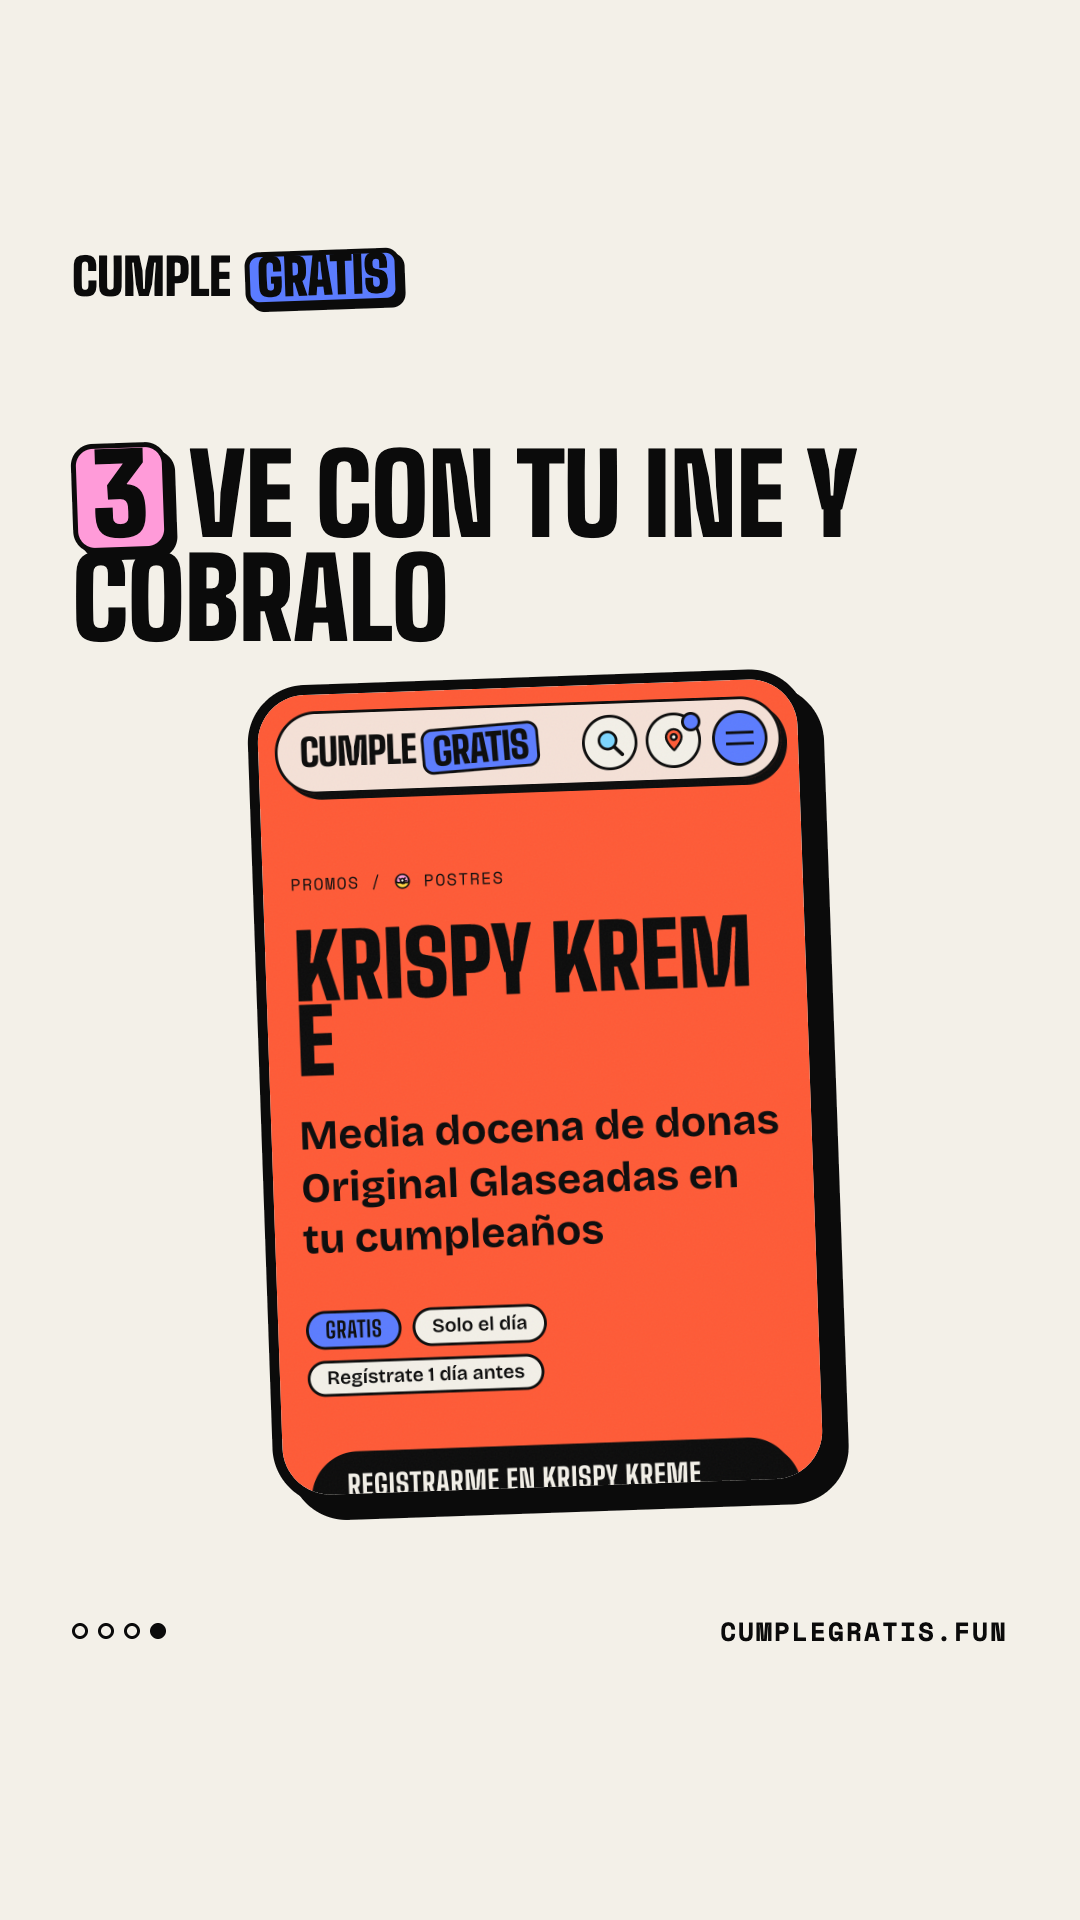
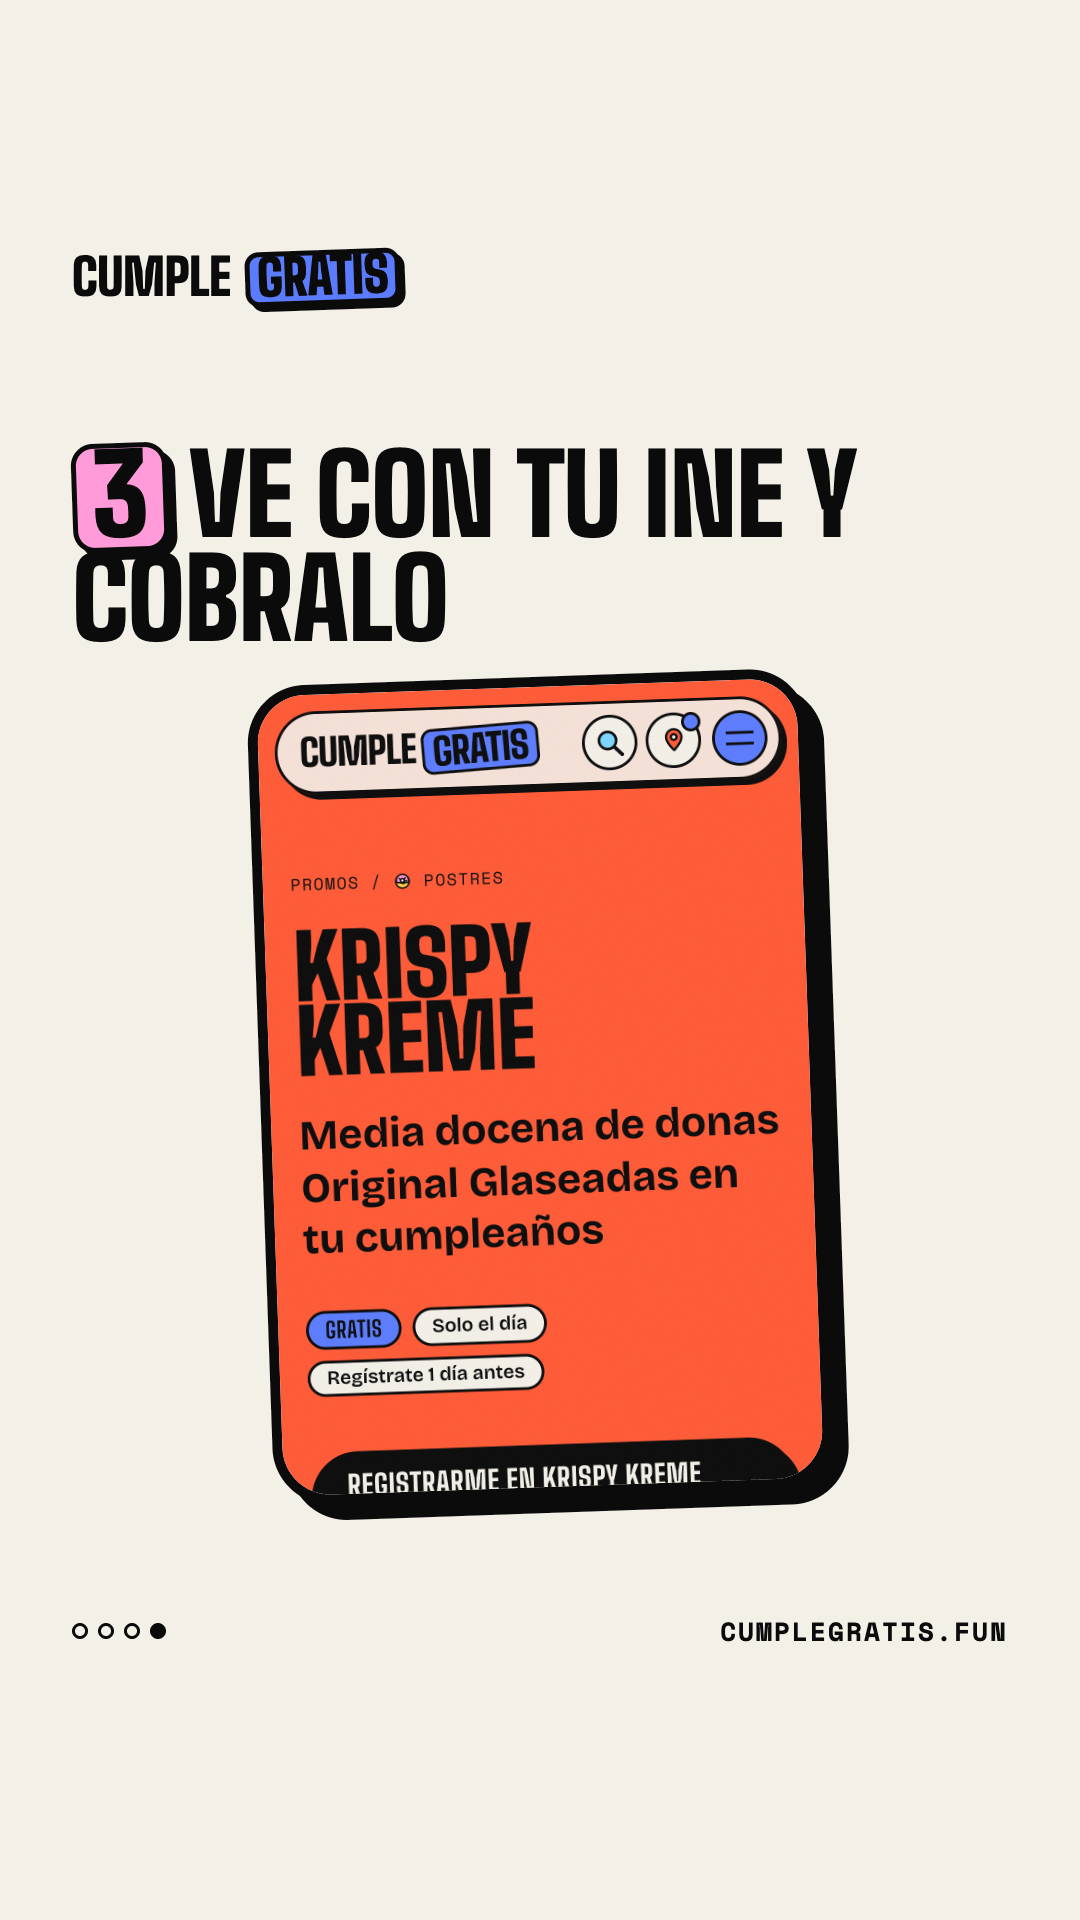
Cumplegratis: destacada «Cómo funciona» con captura corregida

Changed region(s): [[0.275, 0.4688, 0.7028, 0.5625]]

diff --git a/index.html b/index.html
@@ -933,7 +933,7 @@ render();
 </section>
 
 <script>
-const CG = {"items": [{"id": "p01", "type": "post", "date": "2026-10-14", "title": "Tu cumple sale gratis (presentación)", "when": "", "note": "Día de apertura: primero foto de perfil y bio (Perfil, abajo). Luego este carrusel y fíjalo arriba del perfil.", "ig_text": "Tu cumple sale gratis.\n\nJuntamos todas las promos de cumpleaños de México: café, postre, comida, cine y regalos. Pones tu fecha y tu ciudad y te decimos qué registrar y hasta cuándo.\n\nGratis y sin cuenta: link en la bio.\n\n#cumpleaños #promociones #mexico #gratis #cumplegratis", "tt_text": "Todas las promos de cumpleaños de México en un solo lugar. Link en mi perfil #cumpleaños #promociones #mexico #gratis", "ig": [{"full": "cumplegratis/img/p01/ig/1.jpg?v=297d1154", "thumb": "cumplegratis/img/p01/ig/t1.jpg?v=d7e737ea"}, {"full": "cumplegratis/img/p01/ig/2.jpg?v=20e0c9f6", "thumb": "cumplegratis/img/p01/ig/t2.jpg?v=f92fd894"}, {"full": "cumplegratis/img/p01/ig/3.jpg?v=8c886379", "thumb": "cumplegratis/img/p01/ig/t3.jpg?v=6747280a"}, {"full": "cumplegratis/img/p01/ig/4.jpg?v=64f4d226", "thumb": "cumplegratis/img/p01/ig/t4.jpg?v=0f6d96af"}, {"full": "cumplegratis/img/p01/ig/5.jpg?v=eb682a5f", "thumb": "cumplegratis/img/p01/ig/t5.jpg?v=ff97c169"}], "tt": [{"full": "cumplegratis/img/p01/tt/1.jpg?v=297d1154", "thumb": "cumplegratis/img/p01/tt/t1.jpg?v=d7e737ea"}, {"full": "cumplegratis/img/p01/tt/2.jpg?v=20e0c9f6", "thumb": "cumplegratis/img/p01/tt/t2.jpg?v=f92fd894"}, {"full": "cumplegratis/img/p01/tt/3.jpg?v=8c886379", "thumb": "cumplegratis/img/p01/tt/t3.jpg?v=6747280a"}, {"full": "cumplegratis/img/p01/tt/4.jpg?v=64f4d226", "thumb": "cumplegratis/img/p01/tt/t4.jpg?v=0f6d96af"}, {"full": "cumplegratis/img/p01/tt/5.jpg?v=eb682a5f", "thumb": "cumplegratis/img/p01/tt/t5.jpg?v=ff97c169"}], "solo_ig": false}, {"id": "p02", "type": "post", "date": "2026-10-16", "title": "Regalos que puedes cobrar en tu cumpleaños", "when": "", "note": "", "ig_text": "Regalos que puedes cobrar en tu cumpleaños en cadenas de todo México. Cada una tiene sus requisitos: algunas piden app o registro antes, otras solo tu INE.\n\nTodas las condiciones y lo que aplica en tu ciudad: link en la bio.\n\n#cumpleaños #regalosdecumpleaños #promociones #mexico", "tt_text": "Regalos que puedes cobrar en tu cumple. Guárdalo #cumpleaños #promociones #mexico #gratis", "ig": [{"full": "cumplegratis/img/p02/ig/1.jpg?v=56a81232", "thumb": "cumplegratis/img/p02/ig/t1.jpg?v=b1052b84"}, {"full": "cumplegratis/img/p02/ig/2.jpg?v=8419044f", "thumb": "cumplegratis/img/p02/ig/t2.jpg?v=dd36af64"}, {"full": "cumplegratis/img/p02/ig/3.jpg?v=87d4e8fd", "thumb": "cumplegratis/img/p02/ig/t3.jpg?v=4f14f570"}, {"full": "cumplegratis/img/p02/ig/4.jpg?v=8b3bced3", "thumb": "cumplegratis/img/p02/ig/t4.jpg?v=307720d6"}, {"full": "cumplegratis/img/p02/ig/5.jpg?v=216b62d3", "thumb": "cumplegratis/img/p02/ig/t5.jpg?v=b2c5c739"}, {"full": "cumplegratis/img/p02/ig/6.jpg?v=56a5f168", "thumb": "cumplegratis/img/p02/ig/t6.jpg?v=eb18cb86"}], "tt": [{"full": "cumplegratis/img/p02/tt/1.jpg?v=56a81232", "thumb": "cumplegratis/img/p02/tt/t1.jpg?v=b1052b84"}, {"full": "cumplegratis/img/p02/tt/2.jpg?v=8419044f", "thumb": "cumplegratis/img/p02/tt/t2.jpg?v=dd36af64"}, {"full": "cumplegratis/img/p02/tt/3.jpg?v=87d4e8fd", "thumb": "cumplegratis/img/p02/tt/t3.jpg?v=4f14f570"}, {"full": "cumplegratis/img/p02/tt/4.jpg?v=8b3bced3", "thumb": "cumplegratis/img/p02/tt/t4.jpg?v=307720d6"}, {"full": "cumplegratis/img/p02/tt/5.jpg?v=216b62d3", "thumb": "cumplegratis/img/p02/tt/t5.jpg?v=b2c5c739"}, {"full": "cumplegratis/img/p02/tt/6.jpg?v=56a5f168", "thumb": "cumplegratis/img/p02/tt/t6.jpg?v=eb18cb86"}], "solo_ig": false}, {"id": "p03", "type": "post", "date": "2026-10-19", "title": "Cumples en noviembre: regístrate ya", "when": "", "note": "Va antes de que empiece noviembre para que alcancen a registrarse.", "ig_text": "¿Cumples en noviembre? Muchos regalos de cumpleaños solo llegan si ya estabas registrado en el programa de la marca.\n\nEn cumplegratis.fun pones tu fecha y te sale hasta qué día registrarte en cada uno. Link en la bio.\n\n#cumpleaños #noviembre #promociones #mexico", "tt_text": "Si cumples en noviembre, regístrate YA #cumpleaños #noviembre #promociones #mexico", "ig": [{"full": "cumplegratis/img/p03/ig/1.jpg?v=bb37e3fe", "thumb": "cumplegratis/img/p03/ig/t1.jpg?v=354d176e"}, {"full": "cumplegratis/img/p03/ig/2.jpg?v=865d282a", "thumb": "cumplegratis/img/p03/ig/t2.jpg?v=b7b1b67d"}, {"full": "cumplegratis/img/p03/ig/3.jpg?v=11c02ddb", "thumb": "cumplegratis/img/p03/ig/t3.jpg?v=c4e4cd49"}], "tt": [{"full": "cumplegratis/img/p03/tt/1.jpg?v=bb37e3fe", "thumb": "cumplegratis/img/p03/tt/t1.jpg?v=354d176e"}, {"full": "cumplegratis/img/p03/tt/2.jpg?v=865d282a", "thumb": "cumplegratis/img/p03/tt/t2.jpg?v=b7b1b67d"}, {"full": "cumplegratis/img/p03/tt/3.jpg?v=11c02ddb", "thumb": "cumplegratis/img/p03/tt/t3.jpg?v=c4e4cd49"}], "solo_ig": false}], "perfil": {"foto": {"file": "cumplegratis/img/perfil/perfil.png?v=eec987cf", "thumb": "cumplegratis/img/perfil/t-perfil.jpg?v=a9a232ec", "name": "cumplegratis-perfil.png", "label": ""}, "destacadas": [{"file": "cumplegratis/img/dest/1.png?v=d3cf2a99", "thumb": "cumplegratis/img/dest/t1.jpg?v=86b2a82c", "name": "cumplegratis-destacada-1.png", "label": "Cómo funciona"}, {"file": "cumplegratis/img/dest/2.png?v=3b9a06f3", "thumb": "cumplegratis/img/dest/t2.jpg?v=c7b04832", "name": "cumplegratis-destacada-2.png", "label": "Regístrate antes"}, {"file": "cumplegratis/img/dest/3.png?v=fd99a87c", "thumb": "cumplegratis/img/dest/t3.jpg?v=8c8e868b", "name": "cumplegratis-destacada-3.png", "label": "Solo con tu INE"}, {"file": "cumplegratis/img/dest/4.png?v=331a9e3c", "thumb": "cumplegratis/img/dest/t4.jpg?v=977c184a", "name": "cumplegratis-destacada-4.png", "label": "Por ciudad"}], "historias": [{"title": "Cómo funciona", "items": [{"file": "cumplegratis/img/dest/1-1.png?v=62d78f5f", "thumb": "cumplegratis/img/dest/t1-1.jpg?v=0bc079e3", "name": "cumplegratis-1-1.png"}, {"file": "cumplegratis/img/dest/1-2.png?v=63e6fbbb", "thumb": "cumplegratis/img/dest/t1-2.jpg?v=bfbd2c6d", "name": "cumplegratis-1-2.png"}, {"file": "cumplegratis/img/dest/1-3.png?v=bf7d8b1e", "thumb": "cumplegratis/img/dest/t1-3.jpg?v=81f38a60", "name": "cumplegratis-1-3.png"}, {"file": "cumplegratis/img/dest/1-4.png?v=77437dd3", "thumb": "cumplegratis/img/dest/t1-4.jpg?v=c89de711", "name": "cumplegratis-1-4.png"}]}, {"title": "Regístrate antes", "items": [{"file": "cumplegratis/img/dest/2-1.png?v=50be9462", "thumb": "cumplegratis/img/dest/t2-1.jpg?v=537e8800", "name": "cumplegratis-2-1.png"}, {"file": "cumplegratis/img/dest/2-2.png?v=396bf079", "thumb": "cumplegratis/img/dest/t2-2.jpg?v=c2b0bd7d", "name": "cumplegratis-2-2.png"}, {"file": "cumplegratis/img/dest/2-3.png?v=fb1784a8", "thumb": "cumplegratis/img/dest/t2-3.jpg?v=46d71647", "name": "cumplegratis-2-3.png"}]}, {"title": "Solo con tu INE", "items": [{"file": "cumplegratis/img/dest/3-1.png?v=cc3ac964", "thumb": "cumplegratis/img/dest/t3-1.jpg?v=0de74dc5", "name": "cumplegratis-3-1.png"}, {"file": "cumplegratis/img/dest/3-2.png?v=83a0ce9b", "thumb": "cumplegratis/img/dest/t3-2.jpg?v=cb09d5d9", "name": "cumplegratis-3-2.png"}, {"file": "cumplegratis/img/dest/3-3.png?v=8223ae98", "thumb": "cumplegratis/img/dest/t3-3.jpg?v=cb1abc39", "name": "cumplegratis-3-3.png"}]}, {"title": "Por ciudad", "items": [{"file": "cumplegratis/img/dest/4-1.png?v=b1453a2d", "thumb": "cumplegratis/img/dest/t4-1.jpg?v=81cbcfad", "name": "cumplegratis-4-1.png"}, {"file": "cumplegratis/img/dest/4-2.png?v=ec373e08", "thumb": "cumplegratis/img/dest/t4-2.jpg?v=b3cdf6c8", "name": "cumplegratis-4-2.png"}]}], "bio": [{"title": "Usuario (las dos redes)", "text": "cumplegratis.fun"}, {"title": "Nombre (las dos redes)", "text": "Cumplegratis · Promos de cumpleaños"}, {"title": "Bio de Instagram", "text": "Todas las promos de cumpleaños de México en un solo lugar.\nCafé, postre, cine y regalos: qué te dan y cómo cobrarlo.\nDe Dusa Solutions"}, {"title": "Bio de TikTok", "text": "Las promos de cumpleaños de México. Qué te regalan y cómo cobrarlo."}, {"title": "Enlace de Instagram", "text": "https://cumplegratis.fun/ig"}, {"title": "Enlace de TikTok", "text": "https://cumplegratis.fun/tt"}]}, "calStart": "2026-10-12", "apertura": "2026-10-14", "pendientes": [{"id": "perfil", "cuando": "Antes del mié 14", "texto": "Sube la foto de perfil y pega nombre, bio y enlace de cada red (Perfil, abajo). Los enlaces son cumplegratis.fun/ig y cumplegratis.fun/tt."}, {"id": "seguridad", "cuando": "Antes del mié 14", "texto": "Activa verificación en dos pasos en las dos cuentas."}, {"id": "fijar", "cuando": "Mié 14", "texto": "Fija el carrusel de presentación arriba del perfil en Instagram y TikTok."}], "ideas": [], "consejos": ["Cuando cobres una promo real (tu café, tu postre), graba 5–10 s en vertical: el producto y el ticket o la app. Suéltalo en 3-CRUDO.", "Graba sin hablar si no quieres salir: yo le pongo texto y música.", "No grabes caras de empleados ni de otros clientes sin permiso."], "h1": "Cumplegratis <span>oct</span> – <em>nov</em>", "sub": "Posts lun · mié · vie  ·  7–9 pm  ·  actualizado el 13/10/2026"};
+const CG = {"items": [{"id": "p01", "type": "post", "date": "2026-10-14", "title": "Tu cumple sale gratis (presentación)", "when": "", "note": "Día de apertura: primero foto de perfil y bio (Perfil, abajo). Luego este carrusel y fíjalo arriba del perfil.", "ig_text": "Tu cumple sale gratis.\n\nJuntamos todas las promos de cumpleaños de México: café, postre, comida, cine y regalos. Pones tu fecha y tu ciudad y te decimos qué registrar y hasta cuándo.\n\nGratis y sin cuenta: link en la bio.\n\n#cumpleaños #promociones #mexico #gratis #cumplegratis", "tt_text": "Todas las promos de cumpleaños de México en un solo lugar. Link en mi perfil #cumpleaños #promociones #mexico #gratis", "ig": [{"full": "cumplegratis/img/p01/ig/1.jpg?v=297d1154", "thumb": "cumplegratis/img/p01/ig/t1.jpg?v=d7e737ea"}, {"full": "cumplegratis/img/p01/ig/2.jpg?v=20e0c9f6", "thumb": "cumplegratis/img/p01/ig/t2.jpg?v=f92fd894"}, {"full": "cumplegratis/img/p01/ig/3.jpg?v=8c886379", "thumb": "cumplegratis/img/p01/ig/t3.jpg?v=6747280a"}, {"full": "cumplegratis/img/p01/ig/4.jpg?v=64f4d226", "thumb": "cumplegratis/img/p01/ig/t4.jpg?v=0f6d96af"}, {"full": "cumplegratis/img/p01/ig/5.jpg?v=eb682a5f", "thumb": "cumplegratis/img/p01/ig/t5.jpg?v=ff97c169"}], "tt": [{"full": "cumplegratis/img/p01/tt/1.jpg?v=297d1154", "thumb": "cumplegratis/img/p01/tt/t1.jpg?v=d7e737ea"}, {"full": "cumplegratis/img/p01/tt/2.jpg?v=20e0c9f6", "thumb": "cumplegratis/img/p01/tt/t2.jpg?v=f92fd894"}, {"full": "cumplegratis/img/p01/tt/3.jpg?v=8c886379", "thumb": "cumplegratis/img/p01/tt/t3.jpg?v=6747280a"}, {"full": "cumplegratis/img/p01/tt/4.jpg?v=64f4d226", "thumb": "cumplegratis/img/p01/tt/t4.jpg?v=0f6d96af"}, {"full": "cumplegratis/img/p01/tt/5.jpg?v=eb682a5f", "thumb": "cumplegratis/img/p01/tt/t5.jpg?v=ff97c169"}], "solo_ig": false}, {"id": "p02", "type": "post", "date": "2026-10-16", "title": "Regalos que puedes cobrar en tu cumpleaños", "when": "", "note": "", "ig_text": "Regalos que puedes cobrar en tu cumpleaños en cadenas de todo México. Cada una tiene sus requisitos: algunas piden app o registro antes, otras solo tu INE.\n\nTodas las condiciones y lo que aplica en tu ciudad: link en la bio.\n\n#cumpleaños #regalosdecumpleaños #promociones #mexico", "tt_text": "Regalos que puedes cobrar en tu cumple. Guárdalo #cumpleaños #promociones #mexico #gratis", "ig": [{"full": "cumplegratis/img/p02/ig/1.jpg?v=56a81232", "thumb": "cumplegratis/img/p02/ig/t1.jpg?v=b1052b84"}, {"full": "cumplegratis/img/p02/ig/2.jpg?v=8419044f", "thumb": "cumplegratis/img/p02/ig/t2.jpg?v=dd36af64"}, {"full": "cumplegratis/img/p02/ig/3.jpg?v=87d4e8fd", "thumb": "cumplegratis/img/p02/ig/t3.jpg?v=4f14f570"}, {"full": "cumplegratis/img/p02/ig/4.jpg?v=8b3bced3", "thumb": "cumplegratis/img/p02/ig/t4.jpg?v=307720d6"}, {"full": "cumplegratis/img/p02/ig/5.jpg?v=216b62d3", "thumb": "cumplegratis/img/p02/ig/t5.jpg?v=b2c5c739"}, {"full": "cumplegratis/img/p02/ig/6.jpg?v=56a5f168", "thumb": "cumplegratis/img/p02/ig/t6.jpg?v=eb18cb86"}], "tt": [{"full": "cumplegratis/img/p02/tt/1.jpg?v=56a81232", "thumb": "cumplegratis/img/p02/tt/t1.jpg?v=b1052b84"}, {"full": "cumplegratis/img/p02/tt/2.jpg?v=8419044f", "thumb": "cumplegratis/img/p02/tt/t2.jpg?v=dd36af64"}, {"full": "cumplegratis/img/p02/tt/3.jpg?v=87d4e8fd", "thumb": "cumplegratis/img/p02/tt/t3.jpg?v=4f14f570"}, {"full": "cumplegratis/img/p02/tt/4.jpg?v=8b3bced3", "thumb": "cumplegratis/img/p02/tt/t4.jpg?v=307720d6"}, {"full": "cumplegratis/img/p02/tt/5.jpg?v=216b62d3", "thumb": "cumplegratis/img/p02/tt/t5.jpg?v=b2c5c739"}, {"full": "cumplegratis/img/p02/tt/6.jpg?v=56a5f168", "thumb": "cumplegratis/img/p02/tt/t6.jpg?v=eb18cb86"}], "solo_ig": false}, {"id": "p03", "type": "post", "date": "2026-10-19", "title": "Cumples en noviembre: regístrate ya", "when": "", "note": "Va antes de que empiece noviembre para que alcancen a registrarse.", "ig_text": "¿Cumples en noviembre? Muchos regalos de cumpleaños solo llegan si ya estabas registrado en el programa de la marca.\n\nEn cumplegratis.fun pones tu fecha y te sale hasta qué día registrarte en cada uno. Link en la bio.\n\n#cumpleaños #noviembre #promociones #mexico", "tt_text": "Si cumples en noviembre, regístrate YA #cumpleaños #noviembre #promociones #mexico", "ig": [{"full": "cumplegratis/img/p03/ig/1.jpg?v=bb37e3fe", "thumb": "cumplegratis/img/p03/ig/t1.jpg?v=354d176e"}, {"full": "cumplegratis/img/p03/ig/2.jpg?v=865d282a", "thumb": "cumplegratis/img/p03/ig/t2.jpg?v=b7b1b67d"}, {"full": "cumplegratis/img/p03/ig/3.jpg?v=11c02ddb", "thumb": "cumplegratis/img/p03/ig/t3.jpg?v=c4e4cd49"}], "tt": [{"full": "cumplegratis/img/p03/tt/1.jpg?v=bb37e3fe", "thumb": "cumplegratis/img/p03/tt/t1.jpg?v=354d176e"}, {"full": "cumplegratis/img/p03/tt/2.jpg?v=865d282a", "thumb": "cumplegratis/img/p03/tt/t2.jpg?v=b7b1b67d"}, {"full": "cumplegratis/img/p03/tt/3.jpg?v=11c02ddb", "thumb": "cumplegratis/img/p03/tt/t3.jpg?v=c4e4cd49"}], "solo_ig": false}], "perfil": {"foto": {"file": "cumplegratis/img/perfil/perfil.png?v=eec987cf", "thumb": "cumplegratis/img/perfil/t-perfil.jpg?v=a9a232ec", "name": "cumplegratis-perfil.png", "label": ""}, "destacadas": [{"file": "cumplegratis/img/dest/1.png?v=d3cf2a99", "thumb": "cumplegratis/img/dest/t1.jpg?v=86b2a82c", "name": "cumplegratis-destacada-1.png", "label": "Cómo funciona"}, {"file": "cumplegratis/img/dest/2.png?v=3b9a06f3", "thumb": "cumplegratis/img/dest/t2.jpg?v=c7b04832", "name": "cumplegratis-destacada-2.png", "label": "Regístrate antes"}, {"file": "cumplegratis/img/dest/3.png?v=fd99a87c", "thumb": "cumplegratis/img/dest/t3.jpg?v=8c8e868b", "name": "cumplegratis-destacada-3.png", "label": "Solo con tu INE"}, {"file": "cumplegratis/img/dest/4.png?v=331a9e3c", "thumb": "cumplegratis/img/dest/t4.jpg?v=977c184a", "name": "cumplegratis-destacada-4.png", "label": "Por ciudad"}], "historias": [{"title": "Cómo funciona", "items": [{"file": "cumplegratis/img/dest/1-1.png?v=62d78f5f", "thumb": "cumplegratis/img/dest/t1-1.jpg?v=0bc079e3", "name": "cumplegratis-1-1.png"}, {"file": "cumplegratis/img/dest/1-2.png?v=86ded7ed", "thumb": "cumplegratis/img/dest/t1-2.jpg?v=a1f8ae97", "name": "cumplegratis-1-2.png"}, {"file": "cumplegratis/img/dest/1-3.png?v=bf7d8b1e", "thumb": "cumplegratis/img/dest/t1-3.jpg?v=81f38a60", "name": "cumplegratis-1-3.png"}, {"file": "cumplegratis/img/dest/1-4.png?v=dfbd069a", "thumb": "cumplegratis/img/dest/t1-4.jpg?v=cef5c3f9", "name": "cumplegratis-1-4.png"}]}, {"title": "Regístrate antes", "items": [{"file": "cumplegratis/img/dest/2-1.png?v=50be9462", "thumb": "cumplegratis/img/dest/t2-1.jpg?v=537e8800", "name": "cumplegratis-2-1.png"}, {"file": "cumplegratis/img/dest/2-2.png?v=396bf079", "thumb": "cumplegratis/img/dest/t2-2.jpg?v=c2b0bd7d", "name": "cumplegratis-2-2.png"}, {"file": "cumplegratis/img/dest/2-3.png?v=fb1784a8", "thumb": "cumplegratis/img/dest/t2-3.jpg?v=46d71647", "name": "cumplegratis-2-3.png"}]}, {"title": "Solo con tu INE", "items": [{"file": "cumplegratis/img/dest/3-1.png?v=cc3ac964", "thumb": "cumplegratis/img/dest/t3-1.jpg?v=0de74dc5", "name": "cumplegratis-3-1.png"}, {"file": "cumplegratis/img/dest/3-2.png?v=83a0ce9b", "thumb": "cumplegratis/img/dest/t3-2.jpg?v=cb09d5d9", "name": "cumplegratis-3-2.png"}, {"file": "cumplegratis/img/dest/3-3.png?v=8223ae98", "thumb": "cumplegratis/img/dest/t3-3.jpg?v=cb1abc39", "name": "cumplegratis-3-3.png"}]}, {"title": "Por ciudad", "items": [{"file": "cumplegratis/img/dest/4-1.png?v=b1453a2d", "thumb": "cumplegratis/img/dest/t4-1.jpg?v=81cbcfad", "name": "cumplegratis-4-1.png"}, {"file": "cumplegratis/img/dest/4-2.png?v=ec373e08", "thumb": "cumplegratis/img/dest/t4-2.jpg?v=b3cdf6c8", "name": "cumplegratis-4-2.png"}]}], "bio": [{"title": "Usuario (las dos redes)", "text": "cumplegratis.fun"}, {"title": "Nombre (las dos redes)", "text": "Cumplegratis · Promos de cumpleaños"}, {"title": "Bio de Instagram", "text": "Todas las promos de cumpleaños de México en un solo lugar.\nCafé, postre, cine y regalos: qué te dan y cómo cobrarlo.\nDe Dusa Solutions"}, {"title": "Bio de TikTok", "text": "Las promos de cumpleaños de México. Qué te regalan y cómo cobrarlo."}, {"title": "Enlace de Instagram", "text": "https://cumplegratis.fun/ig"}, {"title": "Enlace de TikTok", "text": "https://cumplegratis.fun/tt"}]}, "calStart": "2026-10-12", "apertura": "2026-10-14", "pendientes": [{"id": "perfil", "cuando": "Antes del mié 14", "texto": "Sube la foto de perfil y pega nombre, bio y enlace de cada red (Perfil, abajo). Los enlaces son cumplegratis.fun/ig y cumplegratis.fun/tt."}, {"id": "seguridad", "cuando": "Antes del mié 14", "texto": "Activa verificación en dos pasos en las dos cuentas."}, {"id": "fijar", "cuando": "Mié 14", "texto": "Fija el carrusel de presentación arriba del perfil en Instagram y TikTok."}], "ideas": [], "consejos": ["Cuando cobres una promo real (tu café, tu postre), graba 5–10 s en vertical: el producto y el ticket o la app. Suéltalo en 3-CRUDO.", "Graba sin hablar si no quieres salir: yo le pongo texto y música.", "No grabes caras de empleados ni de otros clientes sin permiso."], "h1": "Cumplegratis <span>oct</span> – <em>nov</em>", "sub": "Posts lun · mié · vie  ·  7–9 pm  ·  actualizado el 13/10/2026"};
 (() => {
 const R = document.getElementById('cg');
 const $ = (s) => R.querySelector(s);
